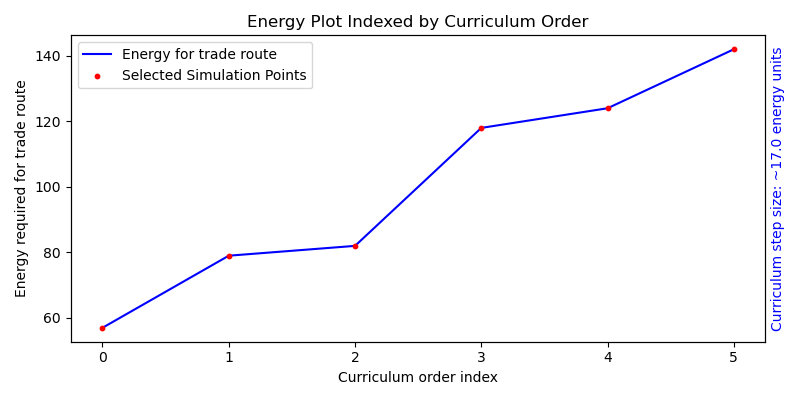
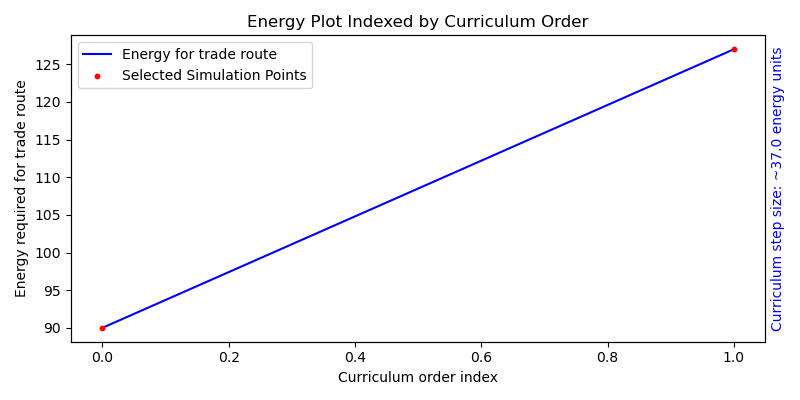
Reward function set up

diff --git a/gym_manager.py b/gym_manager.py
@@ -45,12 +45,13 @@ class CustomEnv(gym.Env):
         return sub_graph.x.shape
 
     def set_current_game_manager(self):
-        self.current_game_manager = self.simulation_manager.game_managers[self.current_game_index]
-        self.current_game_manager.start_game()
+        self.current_gm = self.simulation_manager.game_managers[self.current_game_index]
+        self.current_gm.start_game()
 
-        self.environment = self.current_game_manager.environment
-        self.agent_controler = self.current_game_manager.agent_controler
-        self.kg = self.current_game_manager.kg_class
+        self.environment = self.current_gm.environment
+        self.agent_controler = self.current_gm.agent_controler
+        self.kg = self.current_gm.kg_class
+        self.outpost_coords = self.environment.outpost_locations
 
     def reset(self):
         self.current_game_index = (self.current_game_index + 1) % len(self.simulation_manager.game_managers)
@@ -69,10 +70,10 @@ class CustomEnv(gym.Env):
         return observation, reward, done, info
     
     def progress_step(self):
-        self.current_game_manager.game_step()
+        self.current_gm.game_step()
 
     def render(self, mode='human'):
-        self.current_game_manager.rerender()
+        self.current_gm.rerender()
 
     def _get_observation(self):
         vision = self._get_vision()
@@ -85,14 +86,14 @@ class CustomEnv(gym.Env):
         x, y = agent_pos
 
         # Calculate the region to capture
-        tile_size = self.current_game_manager.tile_size
+        tile_size = self.current_gm.tile_size
         vision_pixel_size = (2 * vision_range + 1) * tile_size
         agent_pixel_x = x * tile_size
         agent_pixel_y = y * tile_size
         vision_rect = pygame.Rect(agent_pixel_x - vision_range * tile_size, agent_pixel_y - vision_range * tile_size, vision_pixel_size, vision_pixel_size)
 
         # Capture the vision region
-        vision_surface = self.current_game_manager.renderer.surface.subsurface(vision_rect).copy()
+        vision_surface = self.current_gm.renderer.surface.subsurface(vision_rect).copy()
         vision_array = pygame.surfarray.array3d(vision_surface)
 
         # Convert from (width, height, channels) to (channels, height, width) for PyTorch
@@ -103,6 +104,52 @@ class CustomEnv(gym.Env):
         return self.kg.get_subgraph()
 
     def _calculate_reward(self):
-        # Define your reward function here
-        reward = 0
+        """
+        Calculate the reward for the agent based on the current path length and energy consumption.
+        """
+        # Get the agent's current path and position
+        agent_pos = (self.agent_controler.agent.grid_x, self.agent_controler.agent.grid_y)
+
+        # Check if the agent has reached all outposts
+        all_outposts_visited = self._check_all_outposts_visited()
+        
+        if all_outposts_visited:
+            # Calculate the total path length and energy consumption
+            path_length = self._calculate_path_length()
+            energy_consumption = self.agent_controler.energy_spent
+
+            # Get the optimal path length and energy consumption from the target manager
+            optimal_path_length = self.target_manager.min_path_length
+            optimal_energy_consumption = self.target_manager.target_route_energy
+
+            # Reward for minimizing path length and energy consumption
+            length_reward = max(0, optimal_path_length - path_length)
+            energy_reward = max(0, optimal_energy_consumption - energy_consumption)
+
+            # Completion reward
+            completion_reward = 100  # Arbitrary large reward for completion
+
+            # Total reward
+            reward = length_reward + energy_reward + completion_reward
+        else:
+            # Penalty for not visiting all outposts
+            reward = -10  # Arbitrary penalty value
+
         return reward
+
+    def _calculate_path_length(self):
+        """
+        Calculate the current total path length based on the agent's position and visited outposts.
+        """
+        # Assume a method to get the agent's visited path
+        visited_path = self.agent_controler.get_visited_path()
+        total_length = sum(self.target_manager.calculate_distance(visited_path[i], visited_path[i+1])
+                        for i in range(len(visited_path) - 1))
+        return total_length
+
+    def _check_all_outposts_visited(self):
+        """
+        Check if the agent has visited all outposts.
+        """
+        visited_outposts = self.agent_controler.get_visited_outposts()
+        return set(visited_outposts) == set(self.outpost_coords)

diff --git a/environment.py b/environment.py
@@ -27,15 +27,18 @@ class Environment:
         self.terrain_colour_map = self.get_terrain_colour_map()
         self.suitable_terrain_locations = {'Plains': [], 'Hills': [], 'Mountains': [], 'Snow': []}
         self.outpost_locations = [] # List of (x, y) coordinates for each outpost, no need to use an array here
+        self.outposts_visited = set()
 
         self.initialize_environment()
-        self.outpost_locations = self.add_outposts()
+        self.add_outposts()
+
         self.player = self.init_player()
 
         self.environment_changed_flag = False
         self.changed_tiles_list = []
 
         self.heat_map = np.zeros_like(self.heightmap)
+
 
     def update_heat_map(self, x, y, intensity=10):
         # Reduce all values by 1 and clip to the range [0, intensity]
@@ -120,16 +123,16 @@ class Environment:
             terrain.energy_requirement = max(0, terrain.energy_requirement - 2)
 
     def move_entity(self, entity, dx, dy):
-        new_x, new_y = entity.grid_x + dx, entity.grid_y + dy
+        current_x, current_y = entity.grid_x, entity.grid_y
+        new_x, new_y = current_x + dx, current_y + dy
         if not self.is_move_valid(new_x, new_y):
-            return False, False
-        old_x, old_y = entity.grid_x, entity.grid_y
+            return current_x, current_y
 
-        self.terrain_object_grid[old_x, old_y].remove_entity()
+        self.terrain_object_grid[current_x, current_y].remove_entity()
         entity.move(dx, dy)
         self.terrain_object_grid[new_x, new_y].add_entity(entity)
         # We never remove the entity from the entity_group, so no need to re-add it
-        self.environment_changed(old_x, old_y, new_x, new_y)
+        self.environment_changed(current_x, current_y, new_x, new_y)
         return new_x, new_y
     
     def delete_entity(self, entity):

diff --git a/agent.py b/agent.py
@@ -64,9 +64,13 @@ class Agent:
             self.collect_resource(-1, 0)
 
     def move_agent(self, dx, dy):
-        self.environment.move_entity(self.agent, dx, dy)
-        self.kg.move_player_node(self.agent.grid_x, self.agent.grid_y)
-        self.energy_spent += self.environment.terrain_object_grid[self.agent.grid_x, self.agent.grid_y].energy_requirement
+        new_x, new_y = self.environment.move_entity(self.agent, dx, dy)
+        self.kg.move_player_node(new_x, new_y)
+        self.energy_spent += self.environment.terrain_object_grid[new_x, new_y].energy_requirement
+        if (new_x, new_y) in self.environment.outpost_locations and (new_x, new_y) not in self.environment.outposts_visited:
+            self.environment.outposts_visited.add((new_x, new_y))
+            return True
+        
 
     def scout(self):
         """ Looking at the environment is a deliberate action. """
@@ -94,7 +98,6 @@ class Agent:
             self.wood -= 1
             self.environment.place_path(self.agent.grid_x, self.agent.grid_y)
             self.kg.build_path_node(self.agent.grid_x, self.agent.grid_y)
-
 
     def place_rock(self):
         if self.stone < 1:

diff --git a/agent_model.py b/agent_model.py
@@ -12,7 +12,7 @@ class AgentModel(nn.Module):
         
         combined_input_size = self.vision_processor.output + self.graph_processor.output
         self.fc1 = nn.Linear(combined_input_size, 128)
-        self.dropout = nn.Dropout(p=0.5)  # Added dropout for regularization
+        self.dropout = nn.Dropout(p=0.5)
         self.fc2 = nn.Linear(128, num_actions)
         
         self._initialize_weights()  # Initialize weights
@@ -23,7 +23,7 @@ class AgentModel(nn.Module):
         
         combined = torch.cat((vision_features, graph_features), dim=1)
         combined = F.relu(self.fc1(combined))
-        combined = self.dropout(combined)  # Apply dropout
+        combined = self.dropout(combined)
         action_probs = self.fc2(combined)
         
         return action_probs

diff --git a/target.py b/target.py
@@ -4,7 +4,6 @@ from itertools import permutations
 import numpy as np
 from queue import PriorityQueue
 
-
 class Target_Manager:
     def __init__(self, environment):
         self.environment = environment

diff --git a/main.py b/main.py
@@ -7,7 +7,7 @@ if __name__ == '__main__':
     }
 
     simulation_manager_args = {
-        'number_of_environments': 10,
+        'number_of_environments': 2,
         'number_of_curricula': 5
     }
 
